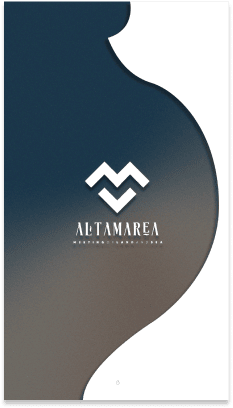
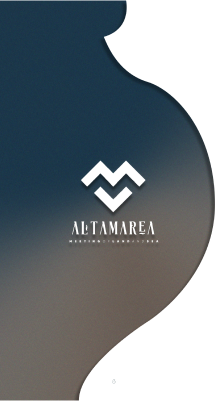
monaco issue fix

Changed region(s): [[0.0, 0.0, 1.0, 1.0], [0.307, 0.389, 0.7256, 0.6284]]

diff --git a/index.html b/index.html
@@ -391,9 +391,9 @@
                         <div class="slide">
                             <div class="row justify-content-center">
                                 <div class="sss">
-                                    <div class="hero-content">
+                                    <div class="hero-content monaco-hero-content">
                                         <div class="section-lg-img-box monaco-img-box">
-                                            <img class="w-100 monaco-lg-img" src="assets/images/monaco.png"
+                                            <img class="w-100 monaco-lg-img" src="assets/images/monaco-2.png"
                                                 alt="monaco">
                                             <button class="section-hover-img-box monaco-sm-img-box">
                                                 <img class="monaco-sm-img" src="assets/images/monaco-sm-1.png"

diff --git a/assets/css/style.css b/assets/css/style.css
@@ -1056,3 +1056,16 @@ html {
     width: 100%;
     -webkit-box-reflect: below 1px linear-gradient(transparent, transparent , #0002 , #0004);
   } */
+
+.monaco-hero-content {
+    justify-content: start !important;
+}
+
+.monaco-hero-content .hero-text-content {
+    margin-top: 400px !important;
+}
+
+.sidebar-bullet .sidebar-menu-list {
+    position: sticky;
+    top: 20px;
+}
